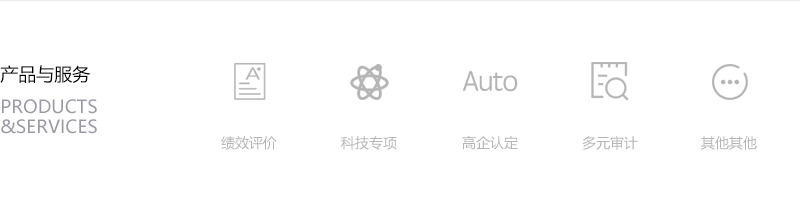
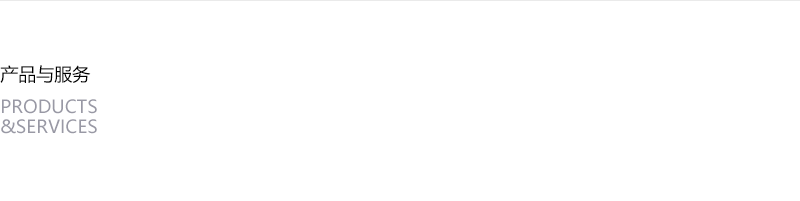
审计咨询

diff --git a/WEB-INF/t/cms/sjzx/sjzx/index/index.html b/WEB-INF/t/cms/sjzx/sjzx/index/index.html
@@ -48,60 +48,59 @@
                 </div>
             </div>
             <script>
-                var t = 5000, mt = null, idx = 0
+              var t = 5000, mt = null, idx = 0
 
-                function adRun() {
-                    mt = setInterval(function () {
-                        idx += 1;
-                        itemGo()
-                    }, t)
+              function adRun() {
+                mt = setInterval(function () {
+                  idx += 1;
+                  itemGo()
+                }, t)
+              }
+
+              function itemGo() {
+                if (idx >= 3 || idx < 0) {
+                  idx = 0
                 }
+                $('#itemCnt .item').eq(idx).addClass('on').siblings().removeClass('on')
+                $('#progressBar .progress-bar-dian').eq(idx).addClass('on').siblings().removeClass('on')
+              }
 
-                function itemGo() {
-                    if (idx >= 3 || idx < 0) {
-                        idx = 0
-                    }
-                    $('#itemCnt .item').eq(idx).addClass('on').siblings().removeClass('on')
-                    $('#progressBar .progress-bar-dian').eq(idx).addClass('on').siblings().removeClass('on')
-                }
-
-                adRun();
-                $('#arrowL').click(function () {
-                    idx -= 1;
-                    itemGo();
-                });
-                $('#arrowR').click(function () {
-                    idx += 1;
-                    itemGo();
-                });
+              adRun();
+              $('#arrowL').click(function () {
+                idx -= 1;
+                itemGo();
+              });
+              $('#arrowR').click(function () {
+                idx += 1;
+                itemGo();
+              });
             </script>
         </div>
         <div class="w-2">
             <div class="m-1">
-                <div class="mc-1">
-                    <a href="">
-                        <img src="/${res}/imgs/img-1.png" alt="">
-                    </a>
-                    <!--<a href="${base}/sjzx/yjzs/index.jhtml">
-                        <i class="iconfont icon-jixiao"></i>
-                        <p>绩效评价</p>
-                    </a>
-                    <a href="${base}/sjzx/yjzs/index.jhtml">
-                        <i class="iconfont icon-typecar118"></i>
-                        <p>科技专项</p>
-                    </a>
-                    <a href="${base}/sjzx/yjzs/index.jhtml">
-                        <i class="iconfont icon-morendingwei"></i>
-                        <p>高企认定</p>
-                    </a>
-                    <a href="${base}/sjzx/yjzs/index.jhtml">
-                        <i class="iconfont icon-config-audit"></i>
-                        <p>多元审计</p>
-                    </a>
-                    <a href="${base}/sjzx/yjzs/index.jhtml">
-                        <i class="iconfont icon-qita"></i>
-                        <p>其他其他</p>
-                    </a>-->
+                <div class="mc-1" >
+                    <div class="cells">
+                        <a class="cell" href="${base}/sjzx/yjzs/index.jhtml">
+                            <i class="iconfont icon-jixiao"></i>
+                            <p>绩效评价</p>
+                        </a>
+                        <a class="cell" href="${base}/sjzx/yjzs/index.jhtml">
+                            <i class="iconfont icon-typecar118"></i>
+                            <p>科技专项</p>
+                        </a>
+                        <a class="cell" href="${base}/sjzx/yjzs/index.jhtml">
+                            <i class="iconfont icon-morendingwei"></i>
+                            <p>高企认定</p>
+                        </a>
+                        <a class="cell" href="${base}/sjzx/yjzs/index.jhtml">
+                            <i class="iconfont icon-config-audit"></i>
+                            <p>多元审计</p>
+                        </a>
+                        <a class="cell" href="${base}/sjzx/yjzs/index.jhtml">
+                            <i class="iconfont icon-qita"></i>
+                            <p>其他其他</p>
+                        </a>
+                    </div>
                 </div>
                 <div class="mc-2">
                     <a href="${base}/sjzx/lxwm/index.jhtml"><img
@@ -127,10 +126,11 @@
                     <img src="../../../../../../r/cms/sjzx/sjzx/imgs/img-4.png"/>
                 </div>
                 <div class="txt">
-                    <div class="tit">科技计划资金专项审计 </div>
+                    <div class="tit">科技计划资金专项审计</div>
                     <div class="date">2018.04.13</div>
                     <div class="cnt">作为
-                        “十一五”、“十二五”、“十三五”期间国家科技计划资金审计机构之一，公司先后承担了省内各高等院校、科研院所及企业的国家科技计划课题结题验收审计任务100多项</div>
+                        “十一五”、“十二五”、“十三五”期间国家科技计划资金审计机构之一，公司先后承担了省内各高等院校、科研院所及企业的国家科技计划课题结题验收审计任务100多项
+                    </div>
                     <a href="${base}/sjzx/xwzx/index.jhtml" class="more">更多新闻 ></a>
                 </div>
             </div>
@@ -140,7 +140,8 @@
                         <div class="t-txt"><a href="${base}/sjzx/yjzs/index.jhtml">业绩展示</a></div>
                     </div>
                     <div class="cnt">
-                        [@cms_content_list channelId='201' count='4' titLen='25' append='...' orderBy='2' dateFormat='yyyy.MM.dd' channelOption='1']
+                        [@cms_content_list channelId='201' count='4' titLen='25' append='...' orderBy='2'
+                        dateFormat='yyyy.MM.dd' channelOption='1']
                         [#list tag_list as a]
                         <a href="${a.url}">${a.title}</a>
                         [/#list]

diff --git a/r/cms/sjzx/sjzx/css/index.css b/r/cms/sjzx/sjzx/css/index.css
@@ -34,7 +34,14 @@ img {border: 0;vertical-align: middle;-ms-interpolation-mode: bicubic}
 /* ===== .index .w-2 ===== */
 .index .w-2{display: flex;background-color: #ffffff;}
 .index .w-2 .m-1{flex:1;}
-.index .w-2 .m-1 .mc-1{/* height: 200px; */}
+.index .w-2 .m-1 .mc-1{height: 203px;position: relative;background: url("../imgs/img-1.png") 0 0 no-repeat;}
+.index .w-2 .m-1 .mc-1 .cells{position: absolute;top: 47px;right: 43px;}
+.index .w-2 .m-1 .mc-1 .cells .cell{display: block;float: left;text-align: center;color: #b5b5b5;padding: 10px 0;}
+.index .w-2 .m-1 .mc-1 .cells .cell + .cell{margin-left: 64px;}
+.index .w-2 .m-1 .mc-1 .cells .cell .iconfont{font-size: 52px;}
+.index .w-2 .m-1 .mc-1 .cells .cell p{font-size: 14px;margin-top: 27px;}
+.index .w-2 .m-1 .mc-1 .cells .cell:hover{color: #096bb6;}
+
 .index .w-2 .m-1 .mc-2{height: 150px;}
 .index .w-2 .m-2{width: 400px;background-color: #eaeaea;z-index: 999;}
 .index .w-2 .m-2 .mc-1{width: 320px;padding:14px;font-size:14px;line-height:18px;background-color: #f4f4f4;height: 331px;margin-top: -28px;}

diff --git a/r/cms/sjzx/sjzx/css/iconfont.css b/r/cms/sjzx/sjzx/css/iconfont.css
@@ -19,7 +19,7 @@
 
 .icon-typecar118:before { content: "\e618"; }
 
-.icon--morendingwei:before { content: "\e628"; }
+.icon-morendingwei:before { content: "\e628"; }
 
 .icon-config-audit:before { content: "\e720"; }
 
